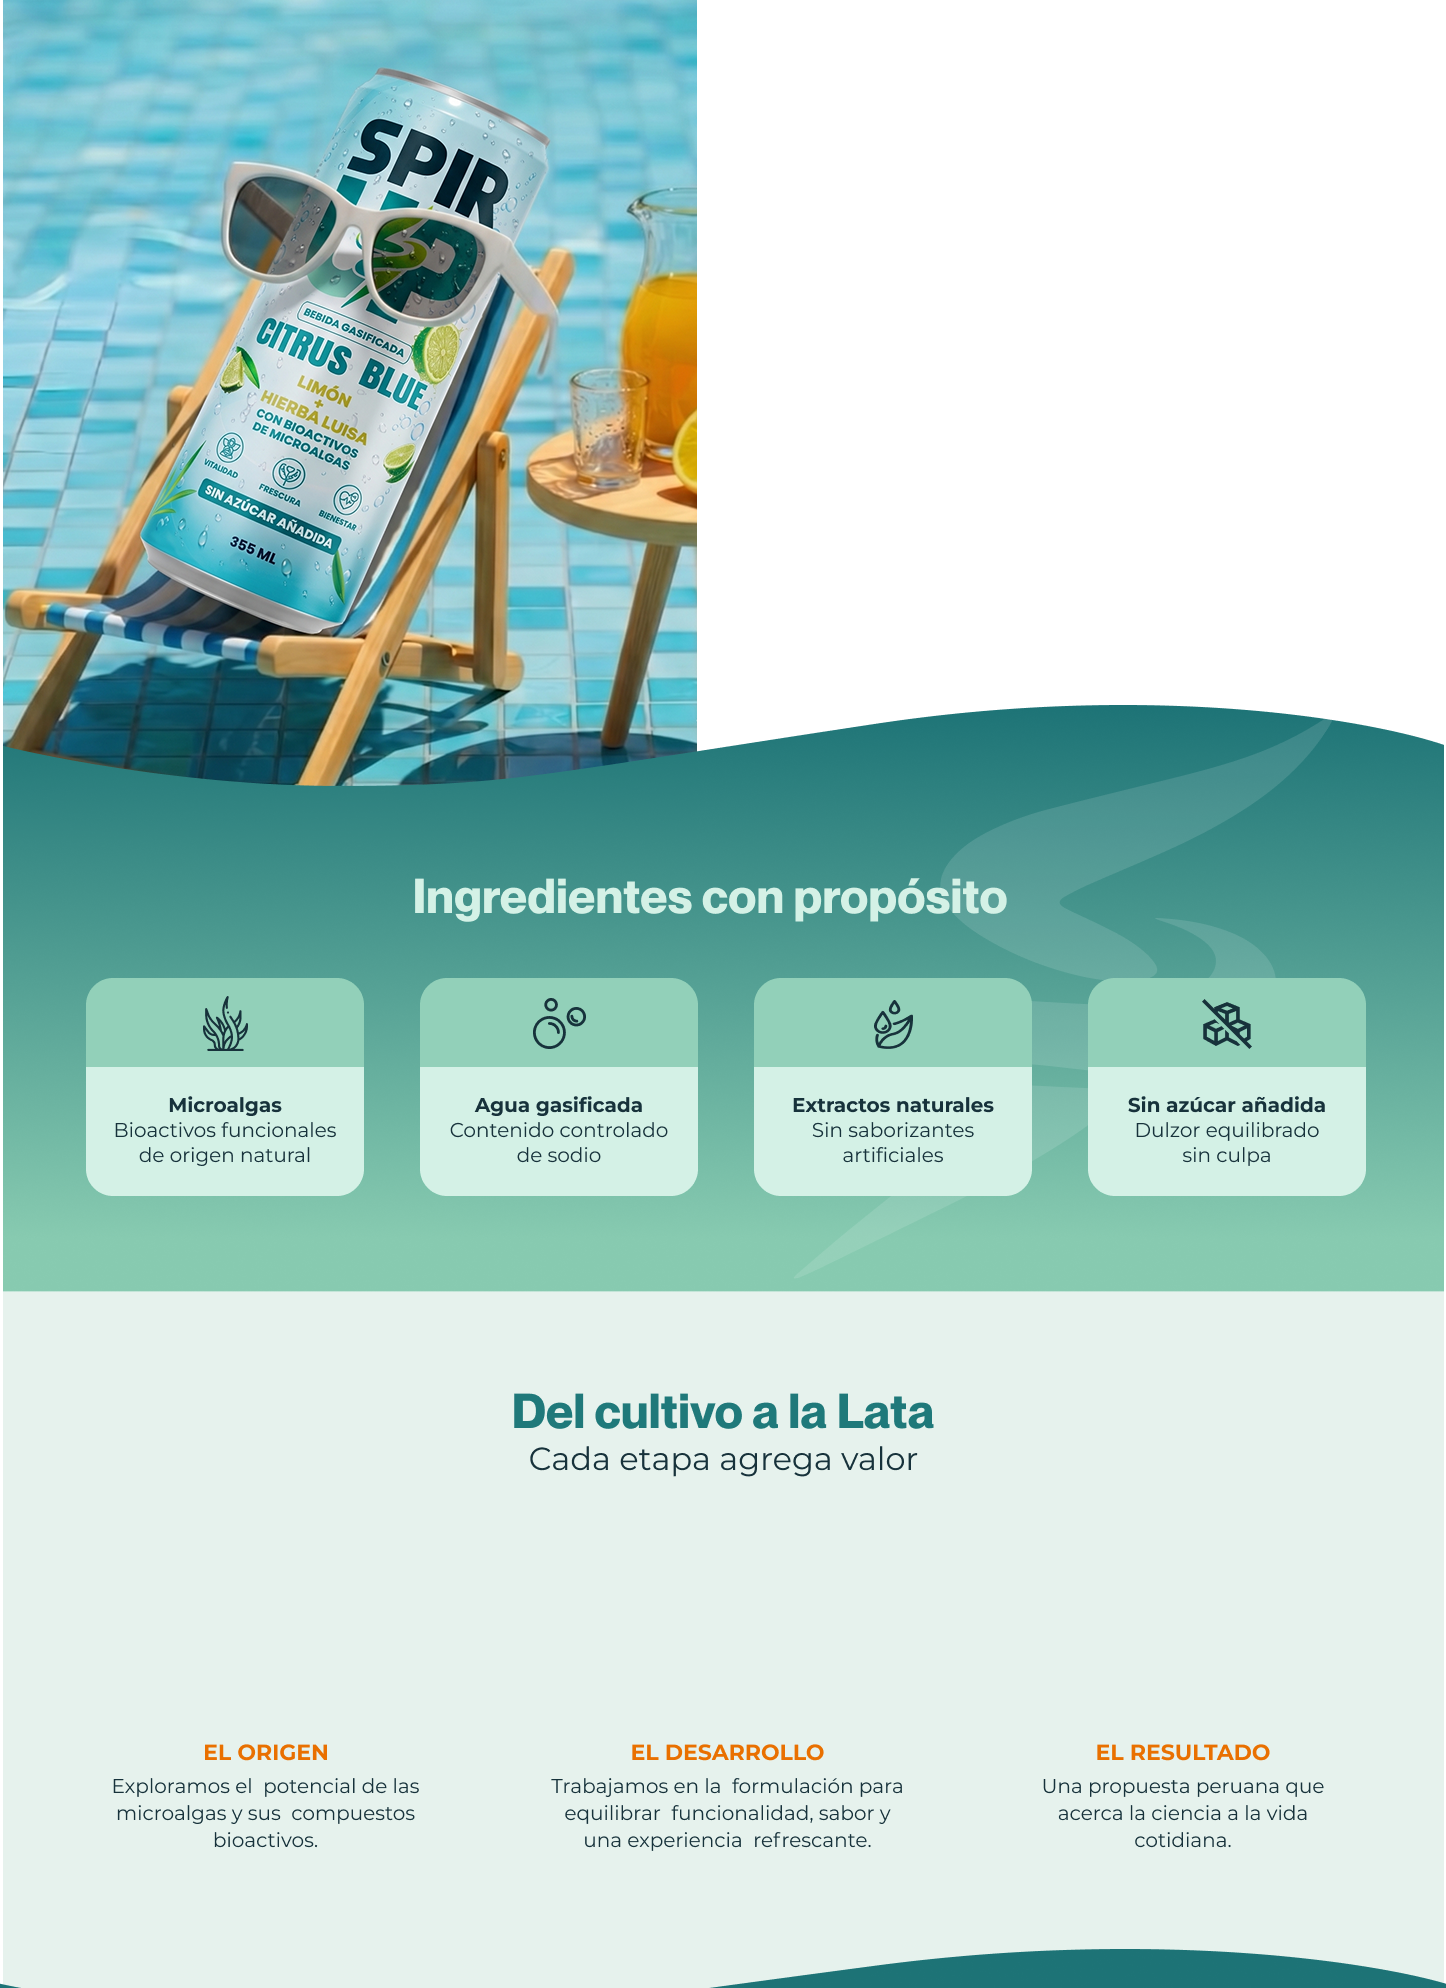
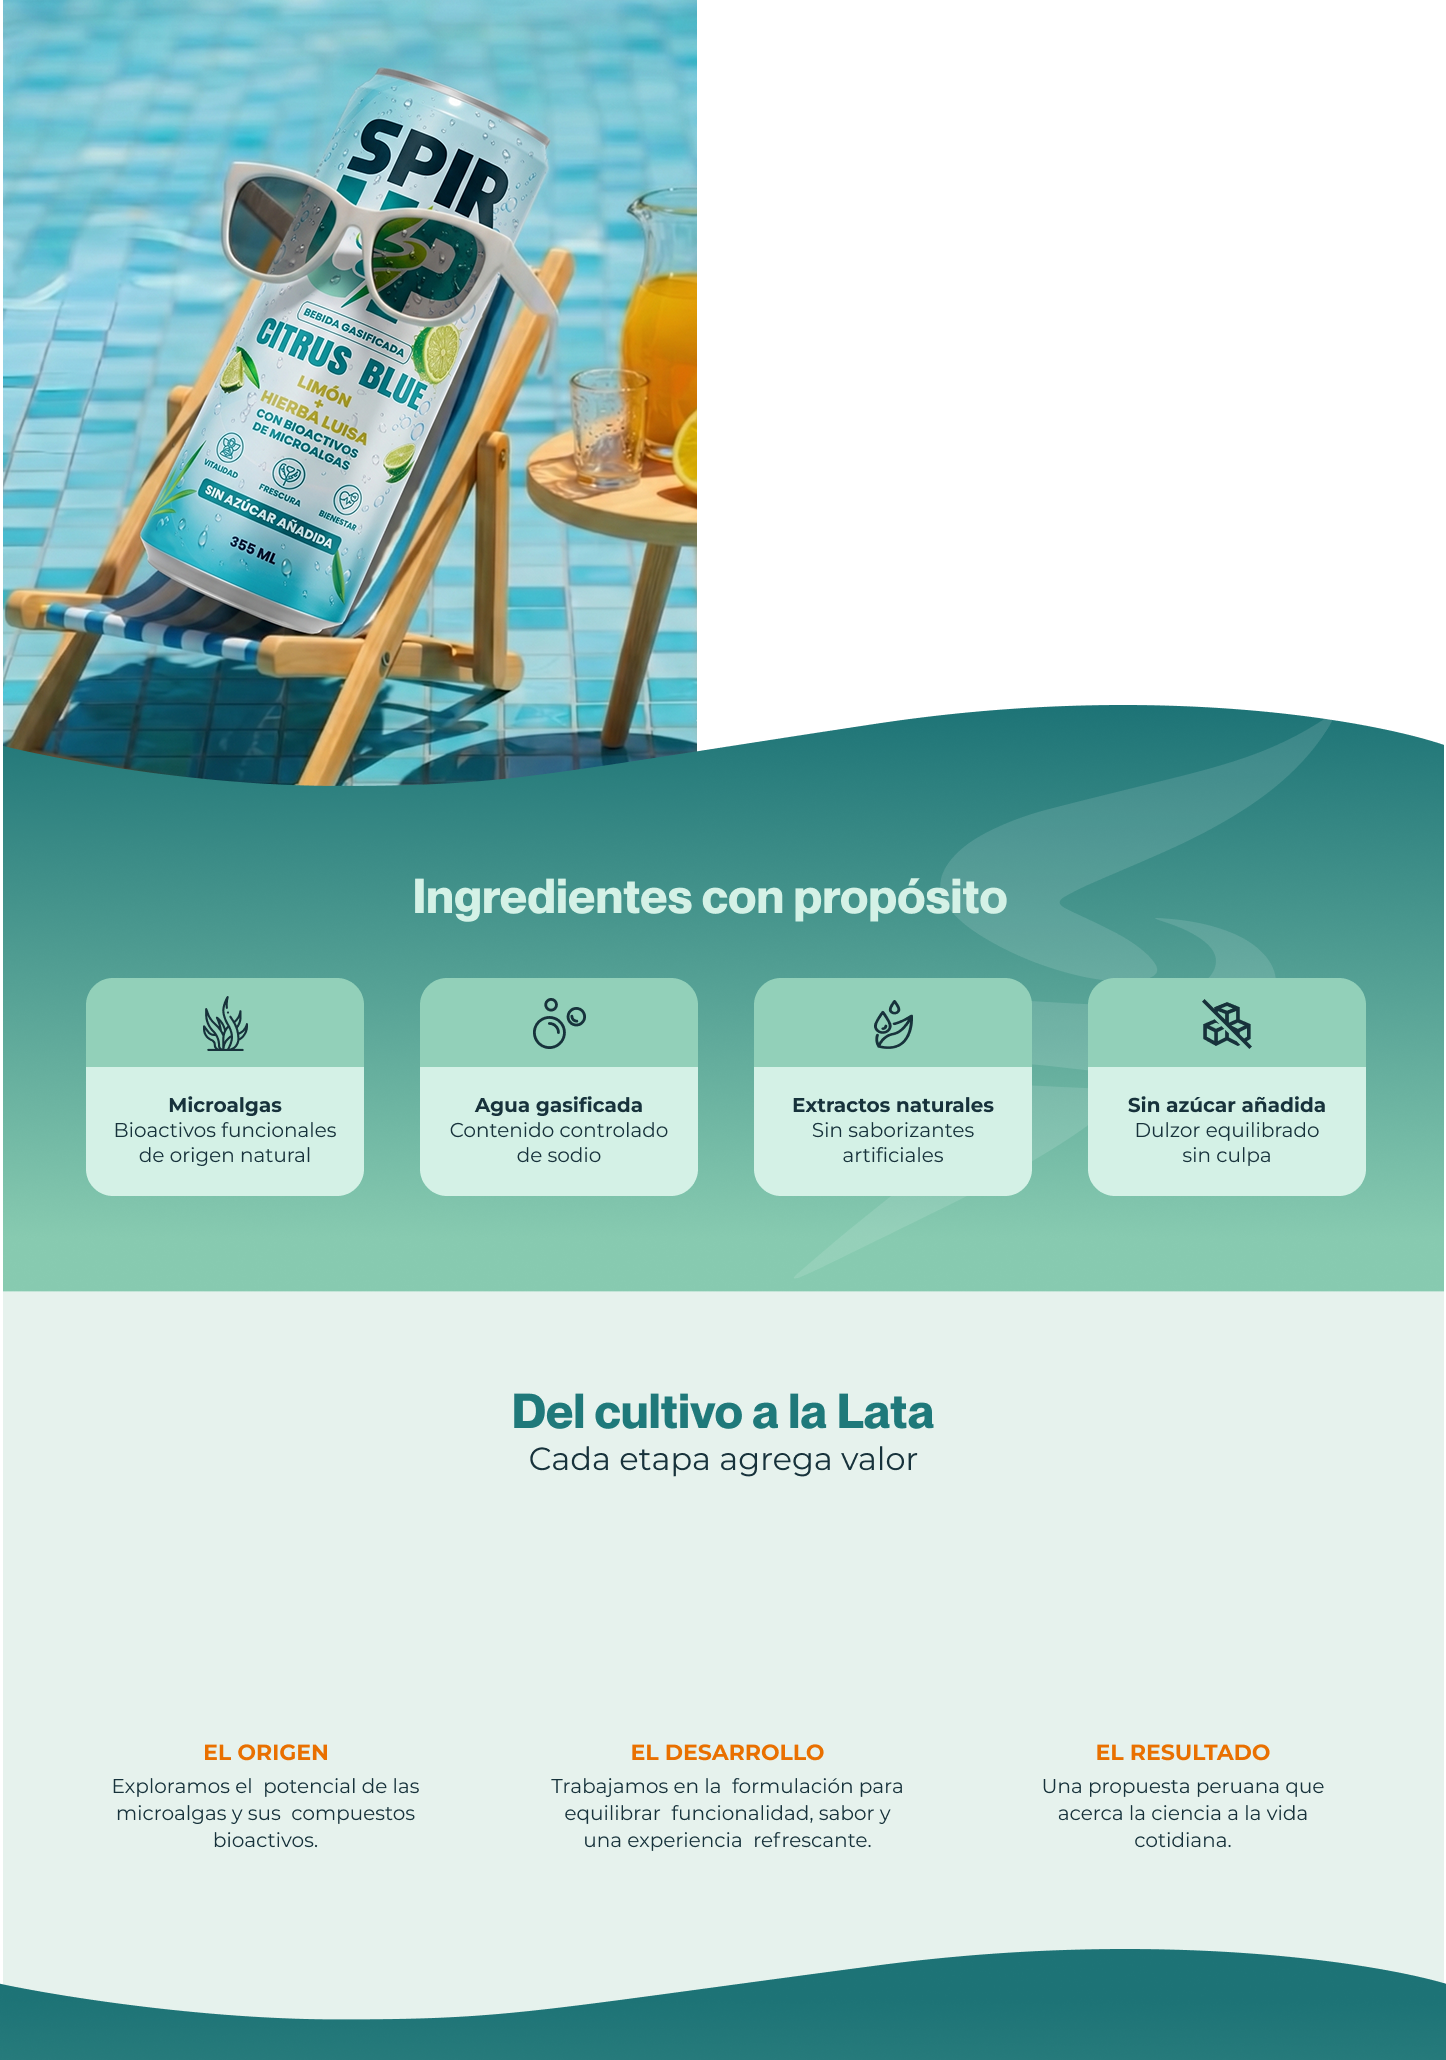
Bloque/Elige: quitar el corte de la union (ola mint->teal)
El recorte anterior (1988px) cortaba la ola a la mitad y el teal de parte8
(#2a7e7d) no calzaba con el de la imagen. Ahora se recorta en 2060px (ola
completa + buffer de teal solido) y parte8 arranca en #24797a (el mismo teal
de la imagen) => la ola fluye sin costura. Overlays reposicionados (x1.30243).

Changed region(s): [[0.0, 0.0312, 1.0, 0.7485], [0.0, 0.8421, 1.0, 1.0], [0.0934, 0.8421, 0.2801, 0.9356]]

diff --git a/wp-content/themes/astra-child/style.css b/wp-content/themes/astra-child/style.css
@@ -641,7 +641,7 @@ html { scroll-behavior: smooth; scroll-padding-top: 118px; }  /* la cabecera fij
 	top: 0;
 	left: 55.5%;                      /* mas a la derecha: separado de la foto */
 	width: 39%;
-	height: 35.47%;                   /* imagen recortada (Group75-top) => %escalado x1.3496 */
+	height: 34.23%;                   /* imagen recortada (Group75-top, 2060px) => %escalado x1.30243 */
 	display: flex;
 	flex-direction: column;
 	justify-content: center;
@@ -665,7 +665,7 @@ html { scroll-behavior: smooth; scroll-padding-top: 118px; }  /* la cabecera fij
 .spirup-bloque__claim strong { font-weight: 800; }
 /* Diagrama "Del cultivo": 3 circulos alineados sobre las etiquetas horneadas
    (centros 16.8 / 46 / 74.9%) en el hueco vacio (y 55-64% de la imagen full). Flechas en CSS. */
-.spirup-bloque__diagram { position: absolute; top: 74.23%; left: 0; width: 100%; height: 12.15%; }  /* reposicionado para Group75-top */
+.spirup-bloque__diagram { position: absolute; top: 71.63%; left: 0; width: 100%; height: 11.72%; }  /* reposicionado para Group75-top (2060px) */
 .spirup-bloque__diagram .c { position: absolute; top: 50%; transform: translate(-50%, -50%); width: 6.5%; aspect-ratio: 1 / 1; border: 2px solid #1f86c4; border-radius: 50%; box-sizing: border-box; background: transparent; }
 .spirup-bloque__diagram .c1 { left: 18.4%; }
 .spirup-bloque__diagram .c2 { left: 50.3%; }
@@ -1209,8 +1209,8 @@ html { scroll-behavior: smooth; scroll-padding-top: 118px; }  /* la cabecera fij
 }
 
 .spirup-parte8 {
-	/* Arranca en el mismo teal donde corta bloque68.png (#2a7e7d) para empalmar sin costura */
-	background: linear-gradient(180deg, #2a7e7d 0%, #2d807f 25%, #529f94 70%, #80c4ac 100%);
+	/* Arranca en el MISMO teal donde termina la imagen recortada (#24797a) => sin corte */
+	background: linear-gradient(180deg, #24797a 0%, #2a7e7d 18%, #529f94 70%, #80c4ac 100%);
 }
 .spirup-parte8__inner {
 	max-width: min(90vw, 1600px);
